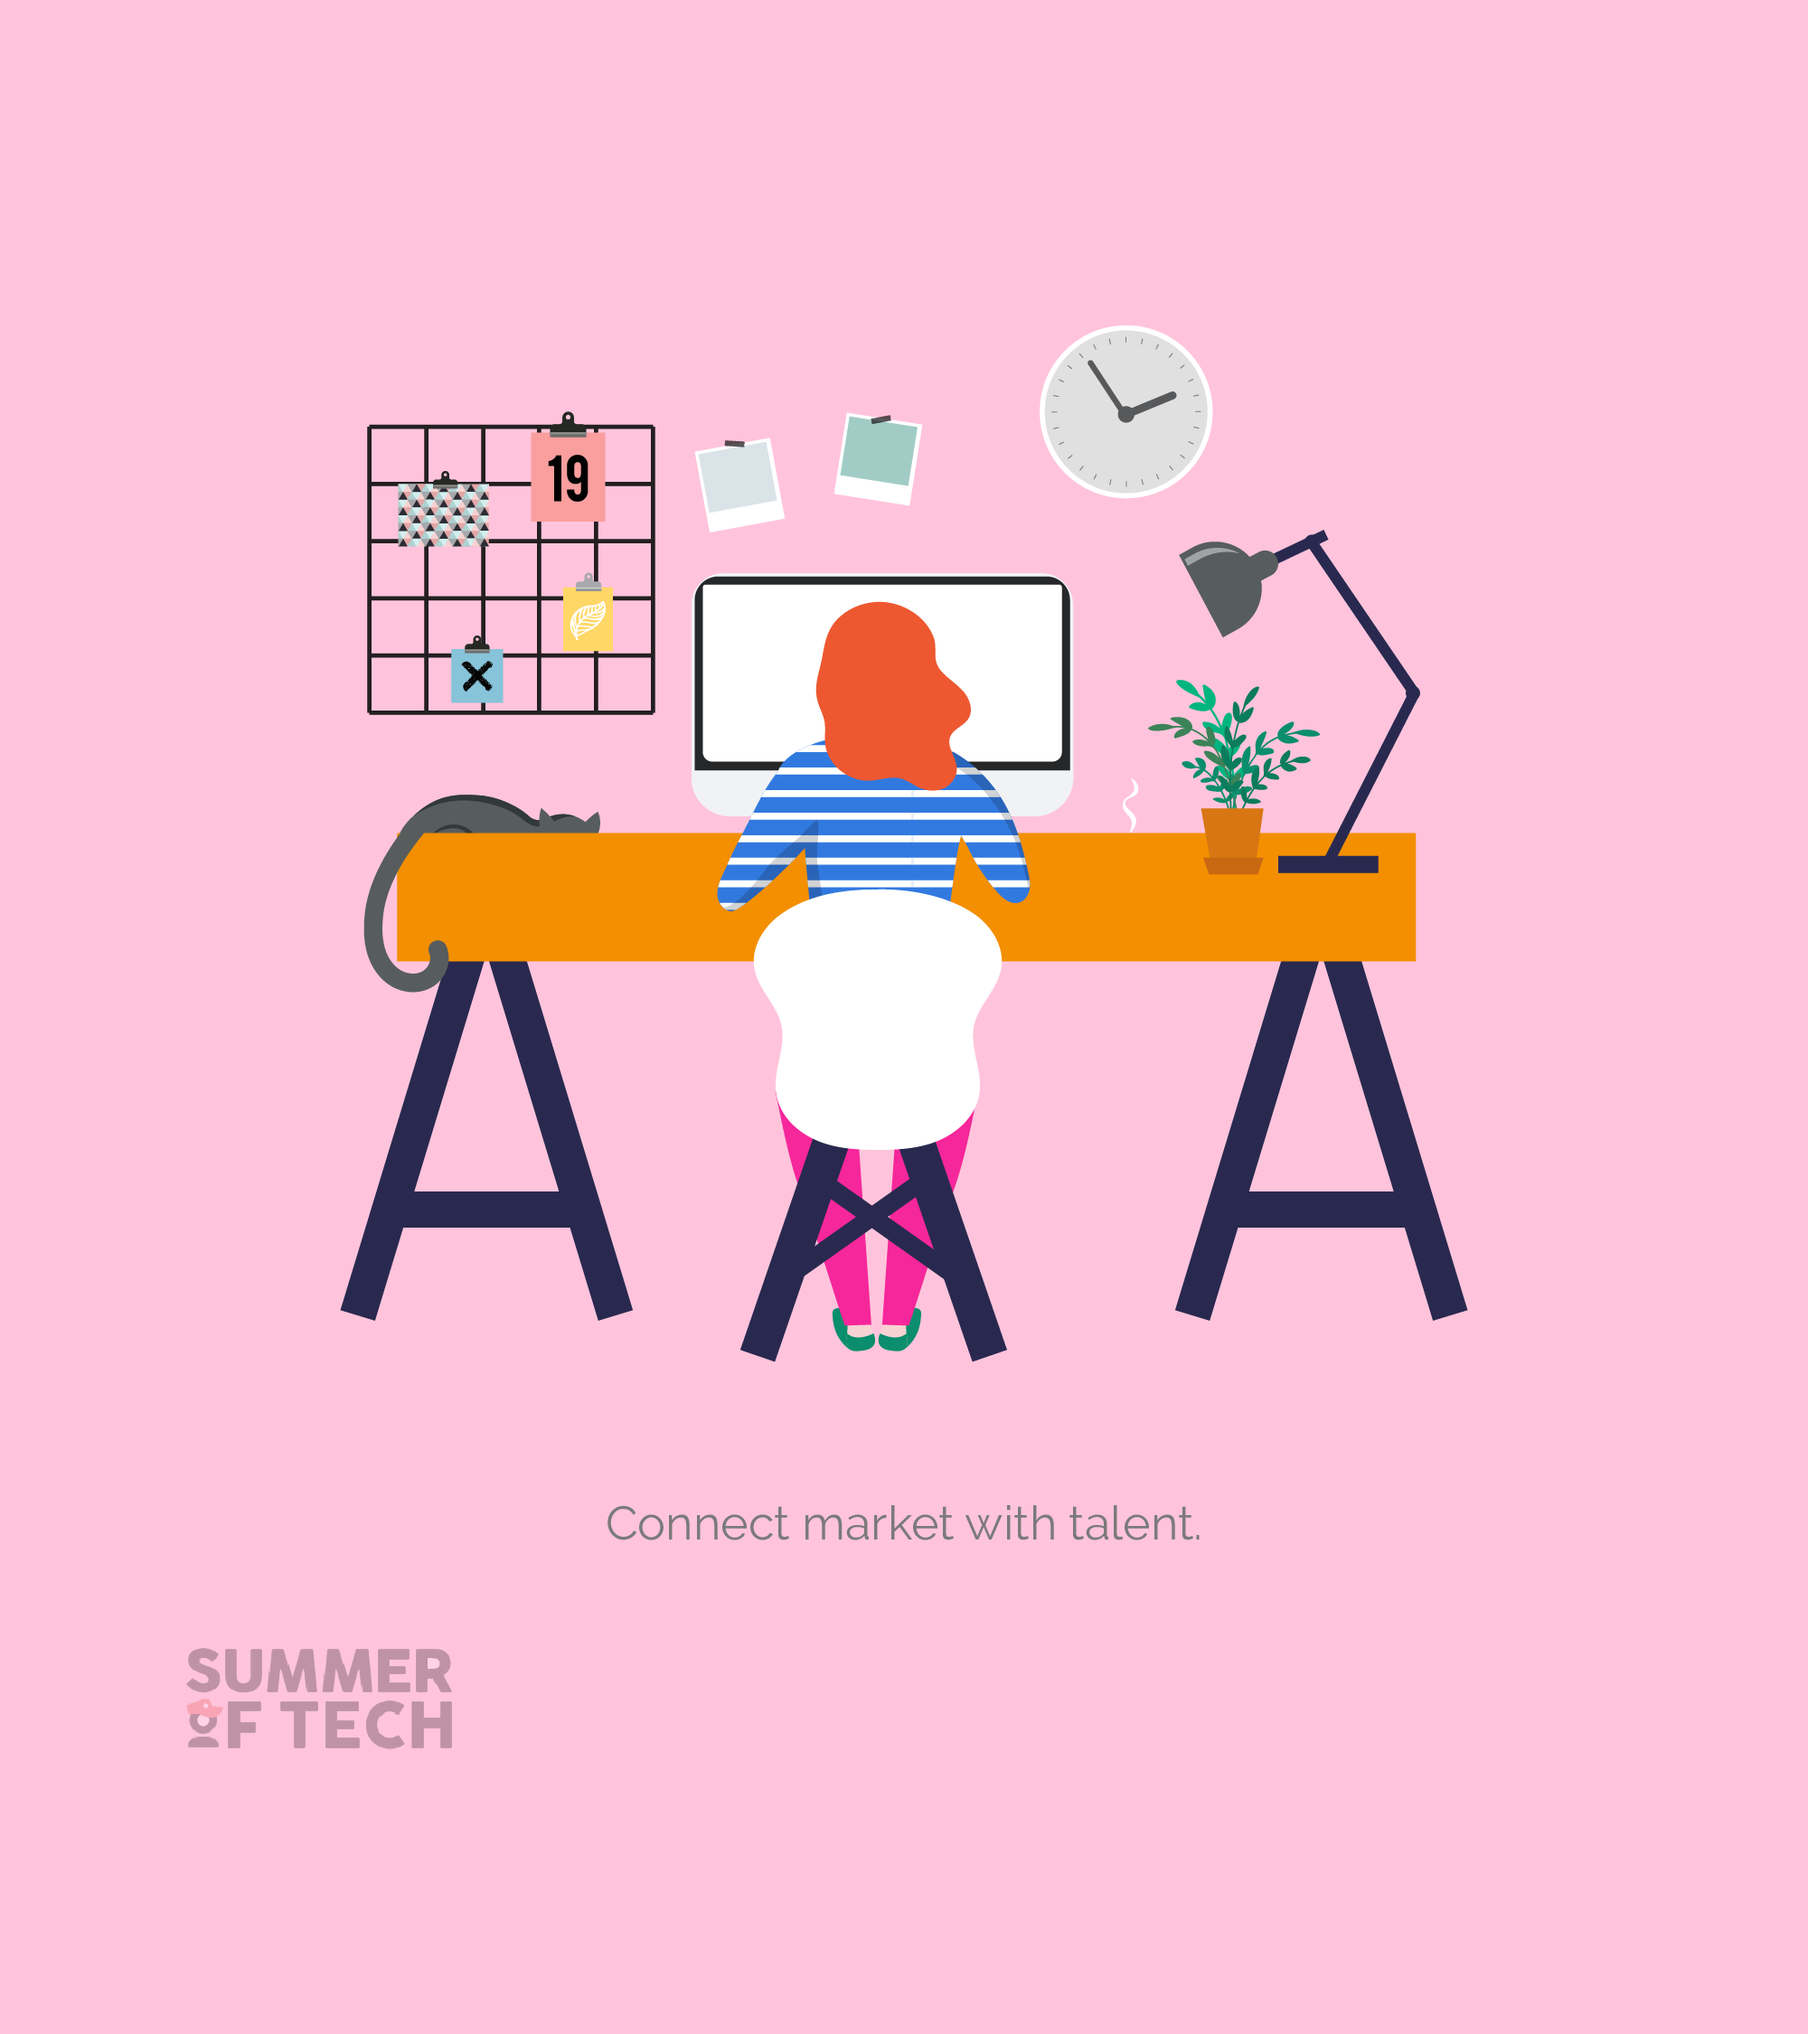
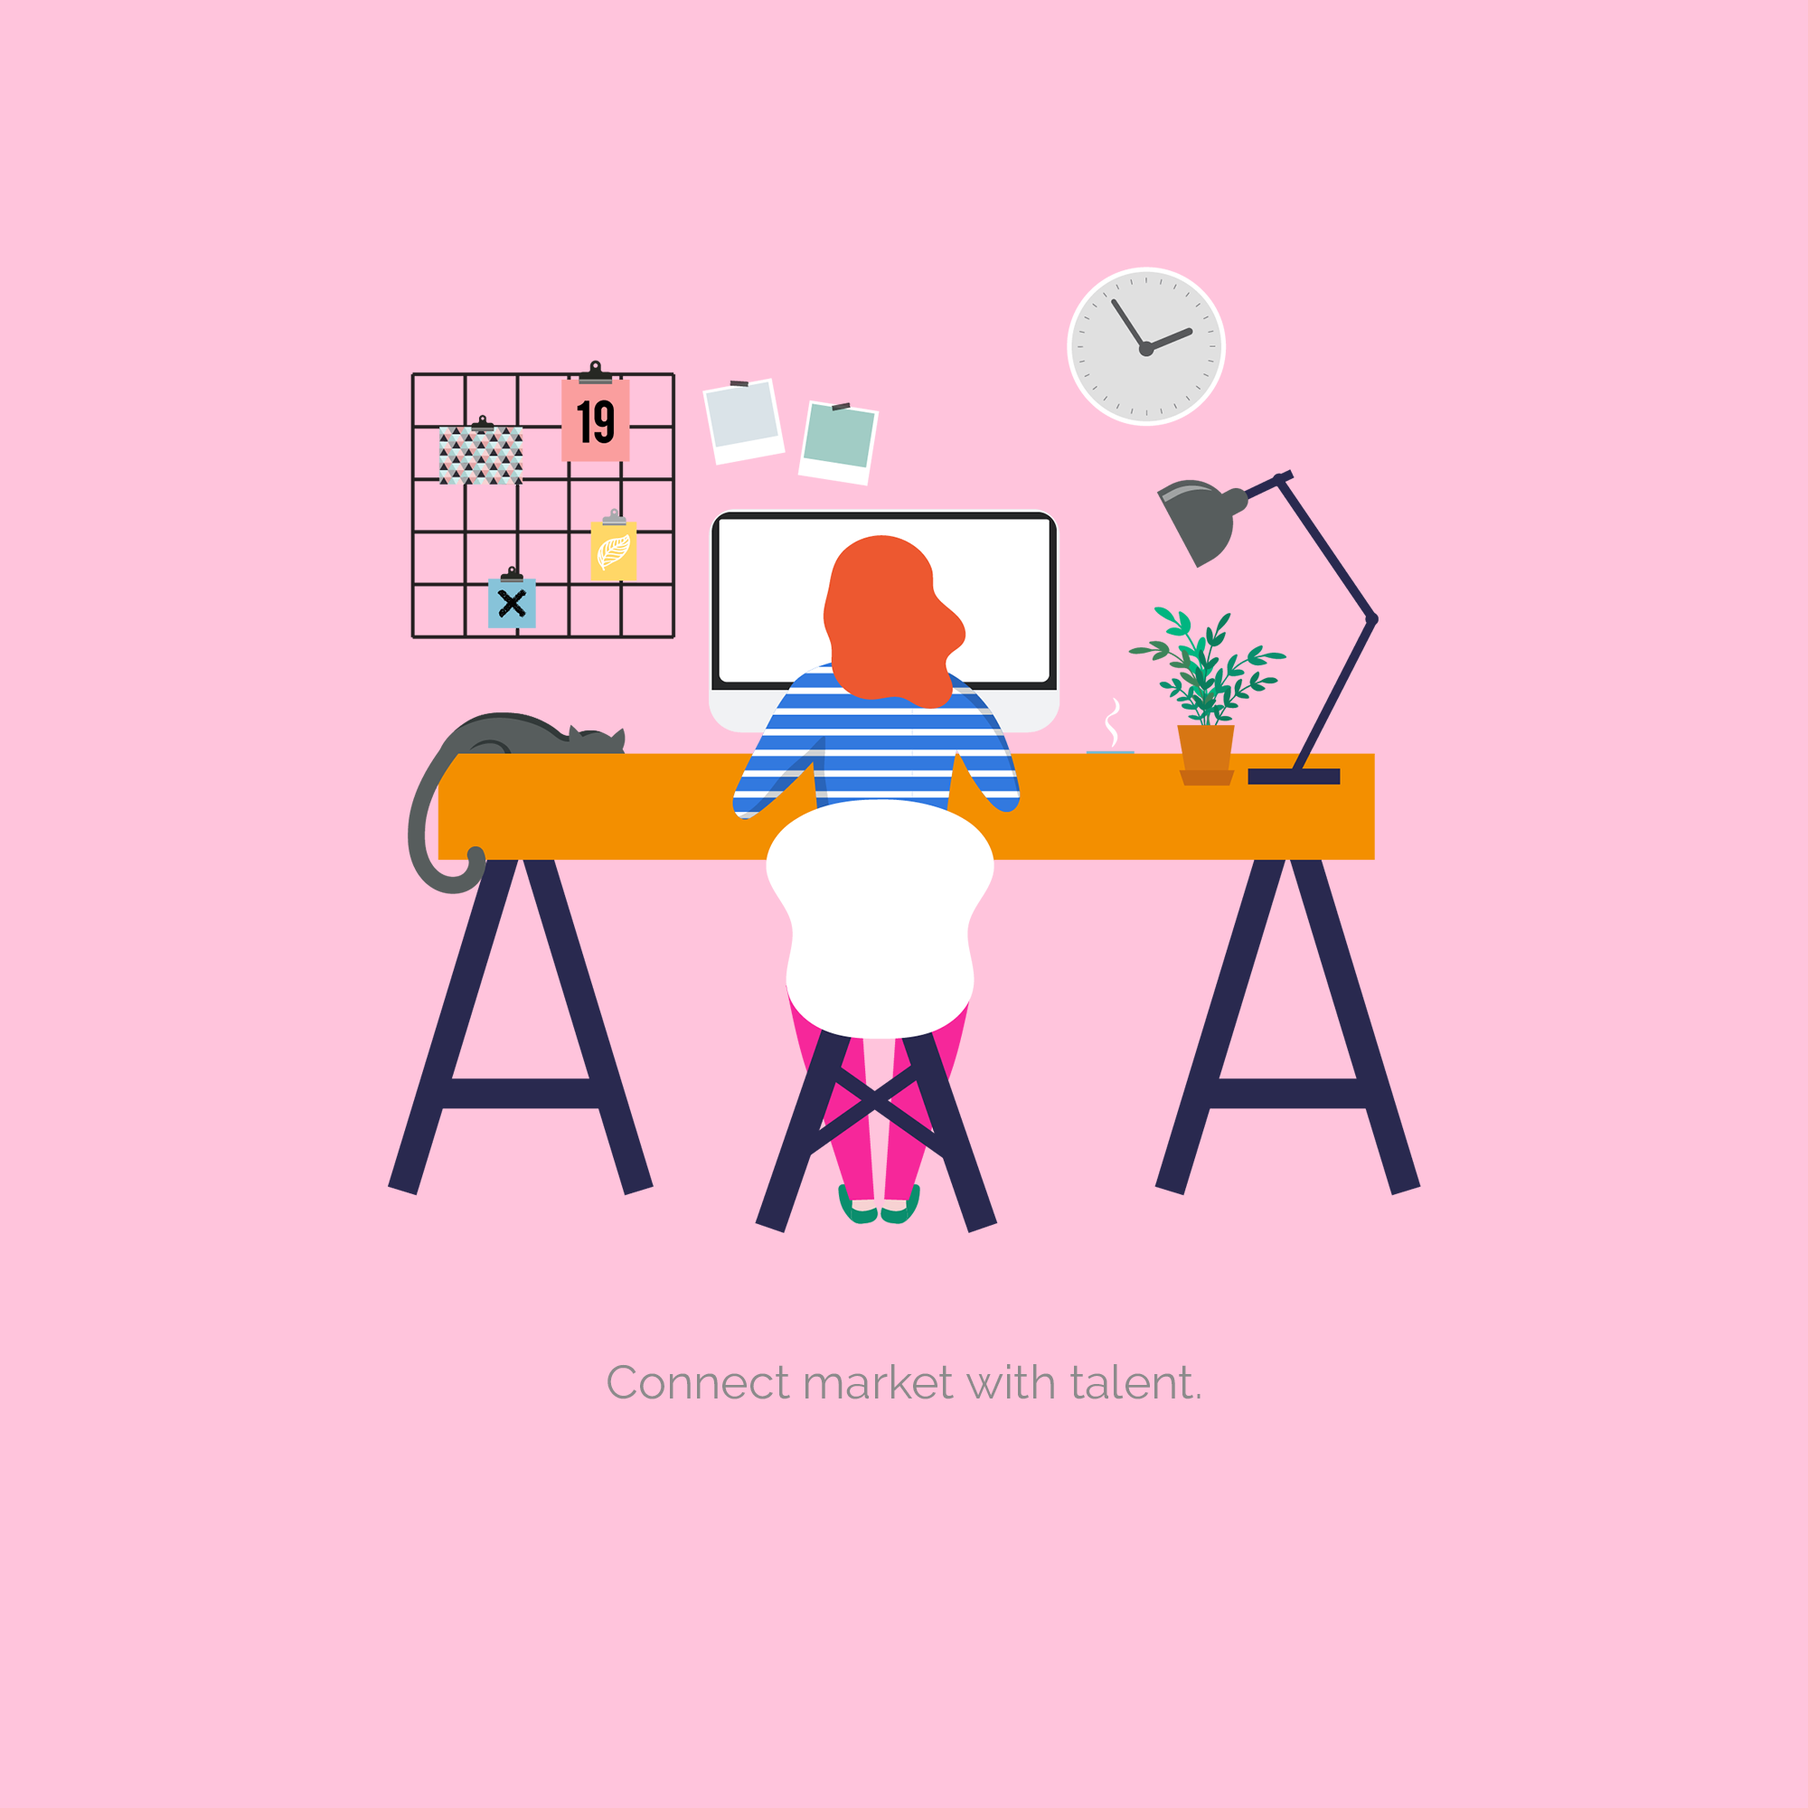
Updated auth images and removed placeholders

diff --git a/digifair/src/containers/Authenticaiton/StudentAuth/Auth.js b/digifair/src/containers/Authenticaiton/StudentAuth/Auth.js
@@ -4,7 +4,7 @@ import { Redirect, withRouter } from "react-router-dom";
 import * as actions from "../../../store/actions/index";
 
 import classes from "./StudentAuth.module.css";
-import digifairLogo from "../../../assets/company_logos/digifair-full-black.png";
+import digifairLogo from "../../../assets/company_logos/digifair-logo-black.png";
 import Button from "../../../components/UI/Button/Button";
 import Input from "../../../components/UI/Input/Input";
 import SwitchButton from "../../../components/UI/SwitchButton/SwitchButton";

diff --git a/digifair/src/containers/Authenticaiton/StudentAuth/StudentAuth.module.css b/digifair/src/containers/Authenticaiton/StudentAuth/StudentAuth.module.css
@@ -25,7 +25,7 @@
 }
 
 .BackgroundIllustrationCompany {
-  background-image: url("../../../assets//screen-images/placeholdercompanyauth3.png");
+  background-image: url("../../../assets//screen-images/auth-screen-company.png");
   background-position: center center;
   background-size: cover;
   background-repeat: no-repeat;
